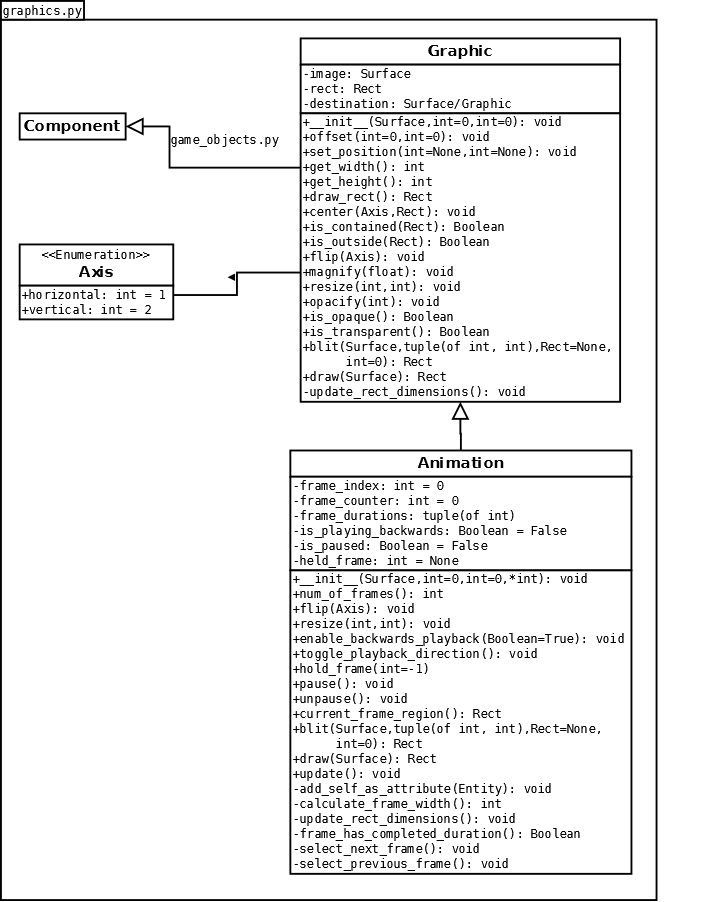
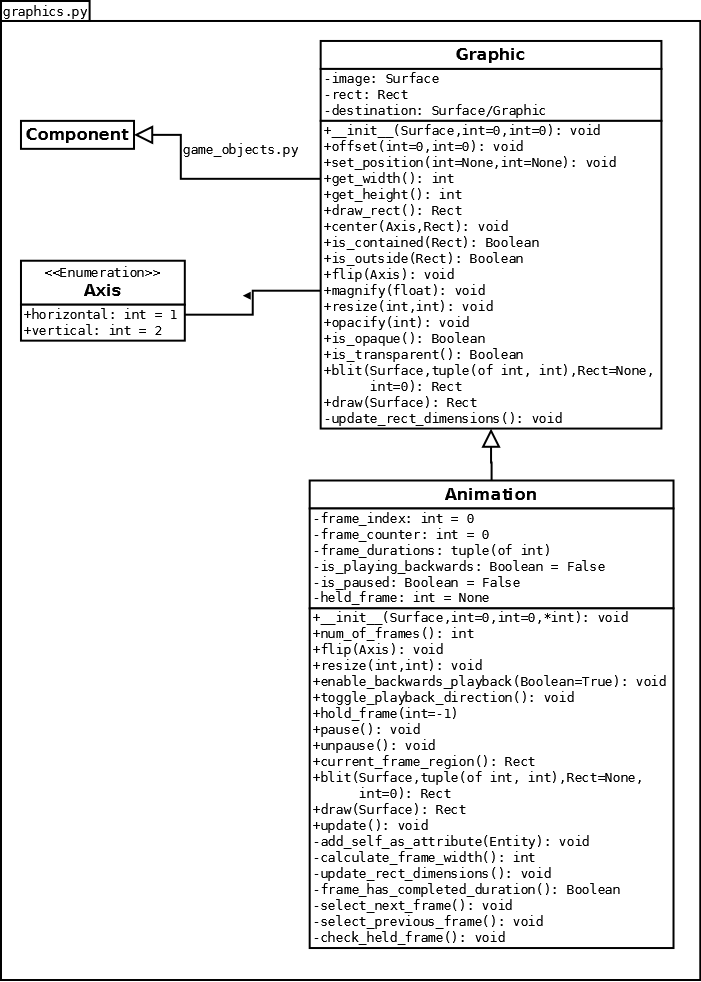
Animation: Add a few forgotten details to update()

Changed region(s): [[0.0, 0.0, 1.0, 1.0], [0.0, 0.0, 0.1498, 0.031]]

diff --git a/materials/graphics.py b/materials/graphics.py
@@ -543,10 +543,14 @@ class Animation(Graphic):
             self._frame_counter += 1
 
             if self._frame_has_completed_duration():
+                self._frame_counter = 0
+
                 if self._is_playing_backwards:
                     self._select_previous_frame()
                 else:
                     self._select_next_frame()
+
+                self._check_held_frame()
 
     def _frame_has_completed_duration(self):
         """Return a Boolean indicating whether the current frame has
@@ -571,3 +575,14 @@ class Animation(Graphic):
         # After the first frame, loop back to the last frame.
         if self._frame_index < 0:
             self._frame_index = self.num_of_frames() - 1
+
+    def _check_held_frame(self):
+        """Pause the Animation if the current frame was set as the held
+        frame.
+        """
+        if ((self._frame_index == self._held_frame) or
+                # _held_frame < 0 indicates pause on the last frame.
+                (self._frame_index == self.num_of_frames() - 1 and
+                 self._held_frame < 0)):
+            self._held_frame = None
+            self.pause()
